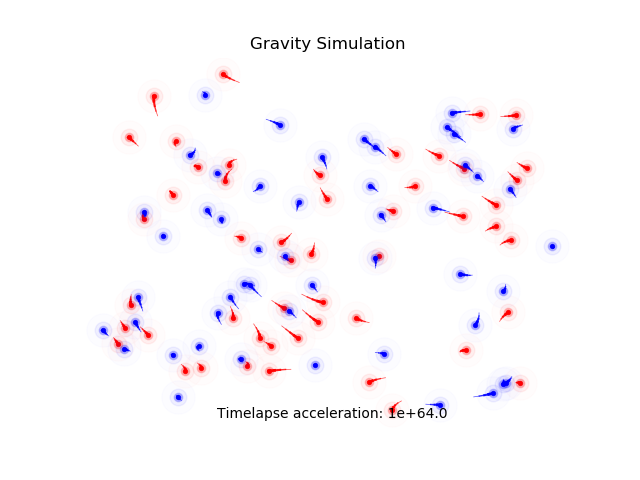
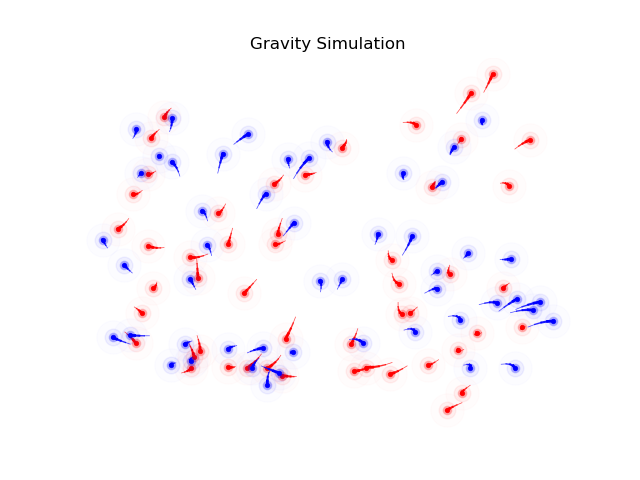
Resize added

diff --git a/Gravity.py b/Gravity.py
@@ -49,7 +49,7 @@ def gravity(dots,k,t,a,b):
 			plt.axis('off')
 			#plt.xlim(0, 1)
 			#plt.ylim(0, 1)
-			plt.text(0.27, -0.05, 'Timelapse acceleration: 1e+'+str(64.0*k/k1),fontsize=10)
+			#plt.text(0.27, -0.05, 'Timelapse acceleration: 1e+'+str(64.0*k/k1),fontsize=10)
 			plt.plot([dots4[0][dots[2]==1],dots3[0][dots[2]==1]],[dots4[1][dots[2]==1],dots3[1][dots[2]==1]],c=(1.0,0.0,0.0,0.7),lw=0.5)
 			plt.plot([dots3[0][dots[2]==1],dots2[0][dots[2]==1]],[dots3[1][dots[2]==1],dots2[1][dots[2]==1]],c=(1.0,0.0,0.0,0.8),lw=1.0)
 			plt.plot([dots2[0][dots[2]==1],dots1[0][dots[2]==1]],[dots2[1][dots[2]==1],dots1[1][dots[2]==1]],c=(1.0,0.0,0.0,0.9),lw=1.5)
